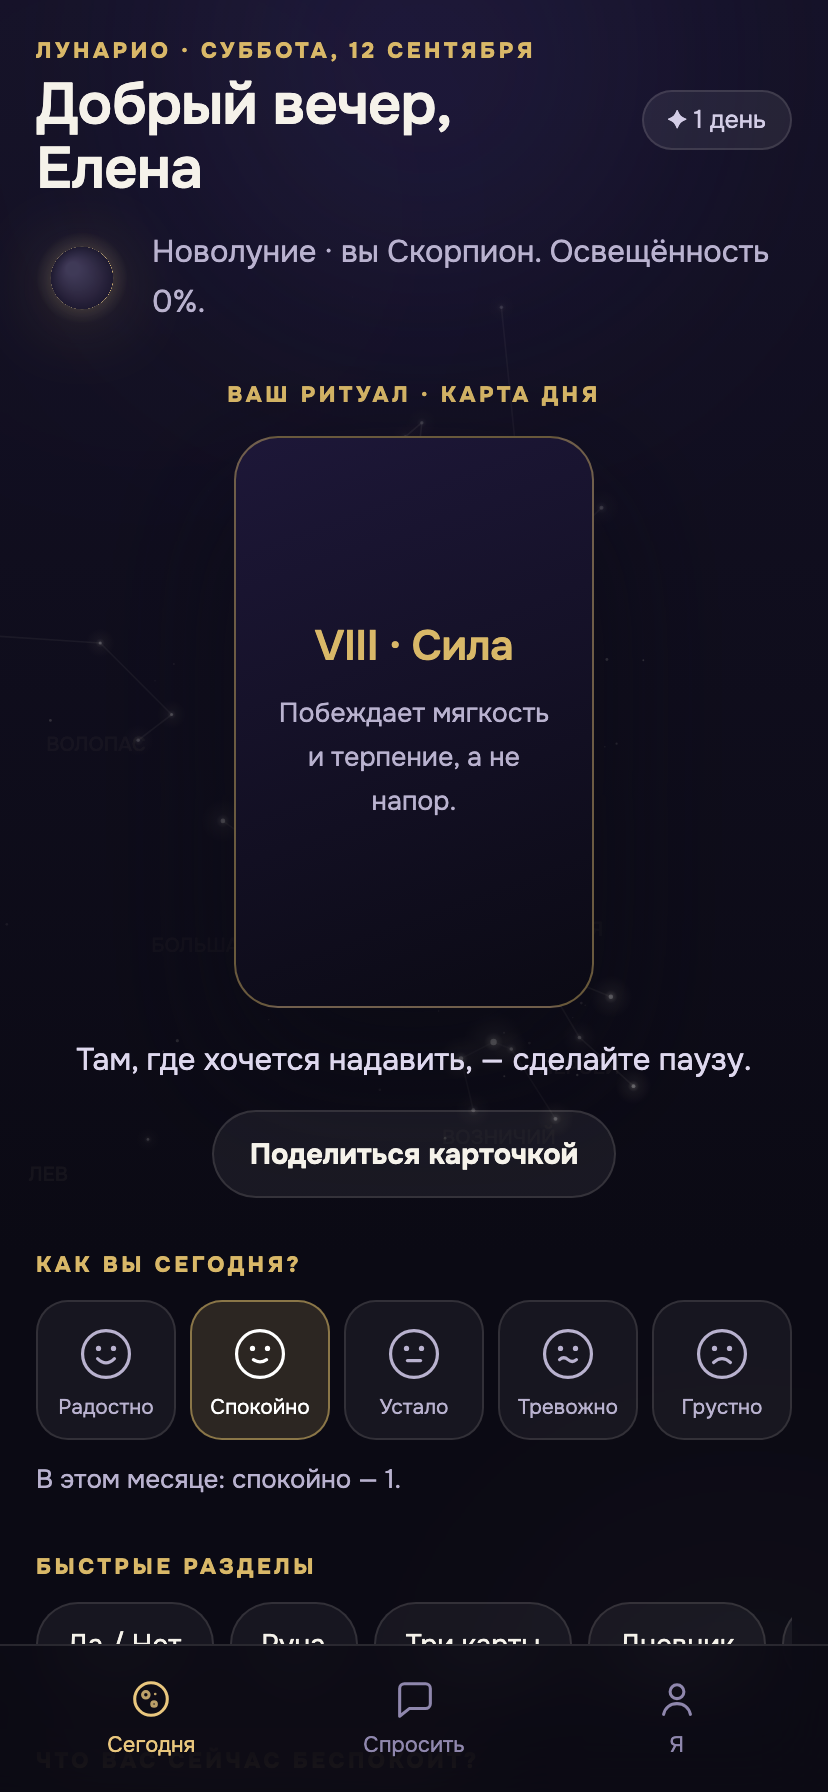
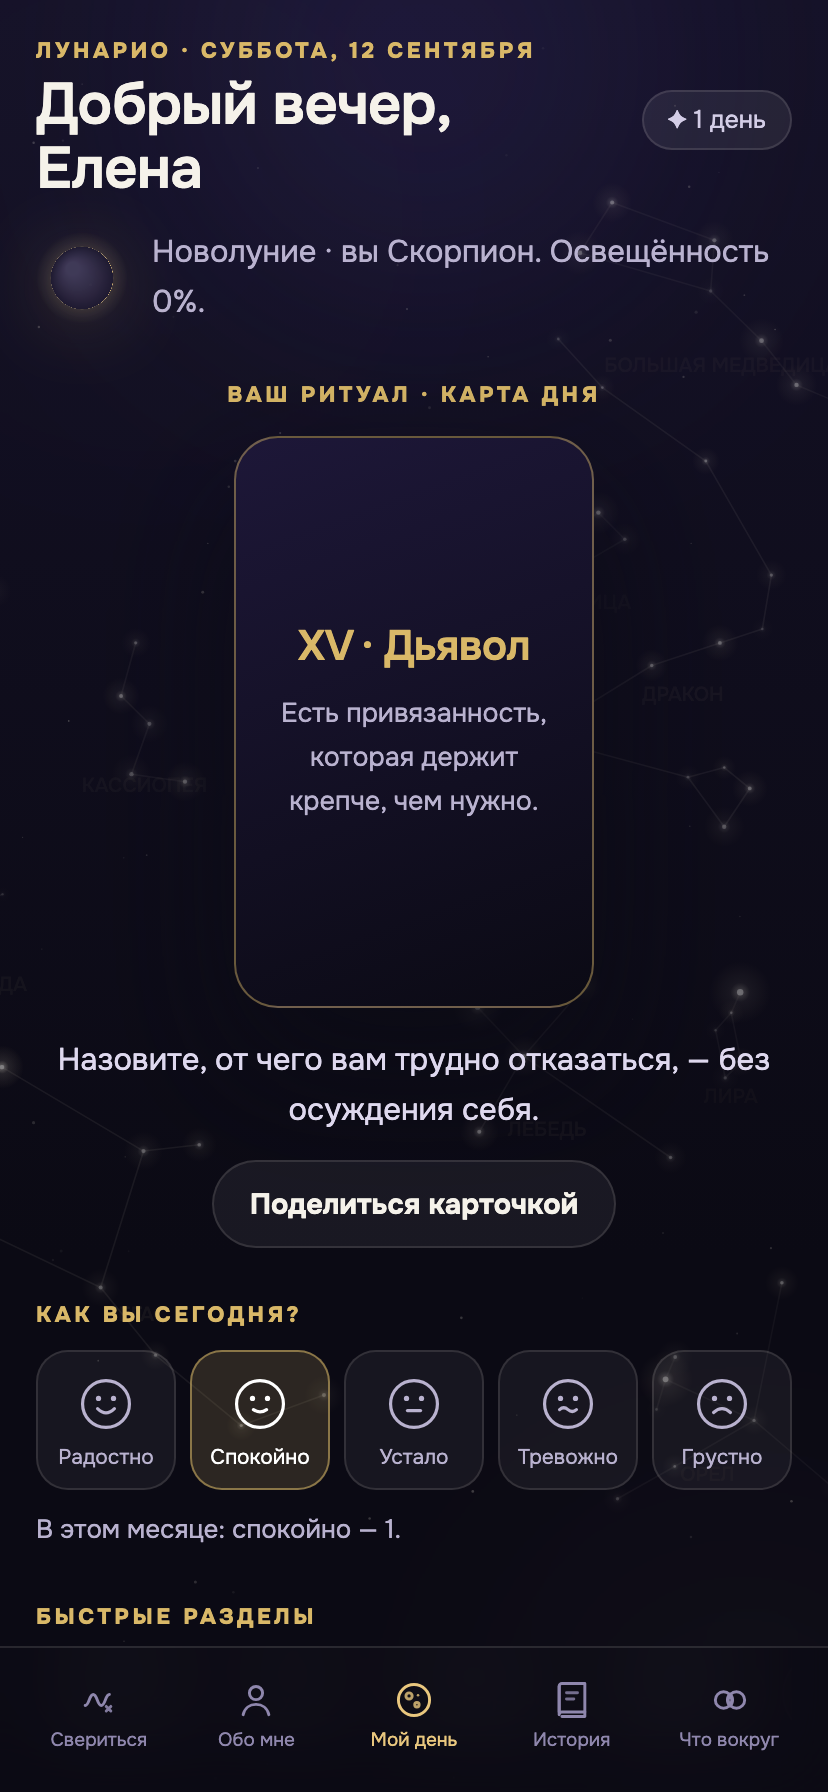
Порядок вкладок и вторая кнопка очистки; пересъёмка витрин
- Вкладки слева направо: Мой день / Свериться / Обо мне / Что вокруг / История
- В «Аккаунт» вернулась «Очистить историю» рядом с «Удалить аккаунт»
- Скриншоты для RuStore/Play и App Store пересняты под новую навигацию

diff --git a/site/index.html b/site/index.html
@@ -489,7 +489,8 @@ if (navigator.userAgent.indexOf('LunarioShell-iOS') !== -1 || window.__LUN_IOS__
 
     <div class="sec" style="margin-top:6px">
       <span class="eyebrow" style="margin-bottom:11px">Аккаунт</span>
-      <button class="btn ghost sm" style="width:100%;color:var(--warn)" onclick="wipe('account')">Удалить аккаунт</button>
+      <button class="btn ghost sm" style="width:100%" onclick="wipe('data')">Очистить историю</button>
+      <button class="btn ghost sm" style="width:100%;margin-top:9px;color:var(--warn)" onclick="wipe('account')">Удалить аккаунт</button>
     </div>
   </section>
 
@@ -528,11 +529,11 @@ if (navigator.userAgent.indexOf('LunarioShell-iOS') !== -1 || window.__LUN_IOS__
 </div>
 
 <nav class="tabs" id="tabs" style="display:none">
+  <button data-v="today" onclick="go('today')" class="on"><svg width="22" height="22" viewBox="0 0 24 24" fill="none" stroke="currentColor" stroke-width="1.6" stroke-linecap="round" stroke-linejoin="round"><circle cx="12" cy="12" r="8.5"/><circle cx="9.3" cy="9.8" r="1.7" opacity=".8"/><circle cx="13.6" cy="14.6" r="1.2" opacity=".8"/><circle cx="14.2" cy="9.4" r=".7" fill="currentColor" stroke="none" opacity=".8"/></svg>Мой день</button>
   <button data-v="ask" onclick="go('ask')"><svg width="22" height="22" viewBox="0 0 24 24" fill="none" stroke="currentColor" stroke-width="1.6" stroke-linecap="round" stroke-linejoin="round"><path d="M5 15c2.2 0 2.2-6 4.4-6s2.2 6 4.4 6 2.2-6 4.4-6"/><path d="M16.5 15.5 19 18m0-2.5L16.5 18" opacity=".9"/></svg>Свериться</button>
   <button data-v="about" onclick="go('about')"><svg width="22" height="22" viewBox="0 0 24 24" fill="none"><circle cx="12" cy="8.2" r="3.6" stroke="currentColor" stroke-width="1.6"/><path d="M5 20c.8-3.6 3.6-5.6 7-5.6s6.2 2 7 5.6" stroke="currentColor" stroke-width="1.6" stroke-linecap="round"/></svg>Обо мне</button>
-  <button data-v="today" onclick="go('today')" class="on"><svg width="22" height="22" viewBox="0 0 24 24" fill="none" stroke="currentColor" stroke-width="1.6" stroke-linecap="round" stroke-linejoin="round"><circle cx="12" cy="12" r="8.5"/><circle cx="9.3" cy="9.8" r="1.7" opacity=".8"/><circle cx="13.6" cy="14.6" r="1.2" opacity=".8"/><circle cx="14.2" cy="9.4" r=".7" fill="currentColor" stroke="none" opacity=".8"/></svg>Мой день</button>
-  <button data-v="history" onclick="go('history')"><svg width="22" height="22" viewBox="0 0 24 24" fill="none" stroke="currentColor" stroke-width="1.6" stroke-linecap="round" stroke-linejoin="round"><path d="M5 4.5A1.5 1.5 0 0 1 6.5 3H19v15.5H6.5A1.5 1.5 0 0 0 5 20Z"/><path d="M5 18.5V4.5M19 18.5V21H6.5"/><path d="M9 8h6M9 11.5h4" opacity=".8"/></svg>История</button>
   <button data-v="around" onclick="go('around')"><svg width="22" height="22" viewBox="0 0 24 24" fill="none" stroke="currentColor" stroke-width="1.6" stroke-linecap="round" stroke-linejoin="round"><circle cx="8.5" cy="12" r="4.5"/><circle cx="15.5" cy="12" r="4.5"/><path d="M12 8.6a4.5 4.5 0 0 1 0 6.8 4.5 4.5 0 0 1 0-6.8Z" stroke-width="1.3"/></svg>Что вокруг</button>
+  <button data-v="history" onclick="go('history')"><svg width="22" height="22" viewBox="0 0 24 24" fill="none" stroke="currentColor" stroke-width="1.6" stroke-linecap="round" stroke-linejoin="round"><path d="M5 4.5A1.5 1.5 0 0 1 6.5 3H19v15.5H6.5A1.5 1.5 0 0 0 5 20Z"/><path d="M5 18.5V4.5M19 18.5V21H6.5"/><path d="M9 8h6M9 11.5h4" opacity=".8"/></svg>История</button>
 </nav>
 <div class="sheet-bg" id="pw-bg" onclick="closePaywall(event)">
   <div class="sheet" role="dialog" aria-modal="true" aria-labelledby="pw-title">
